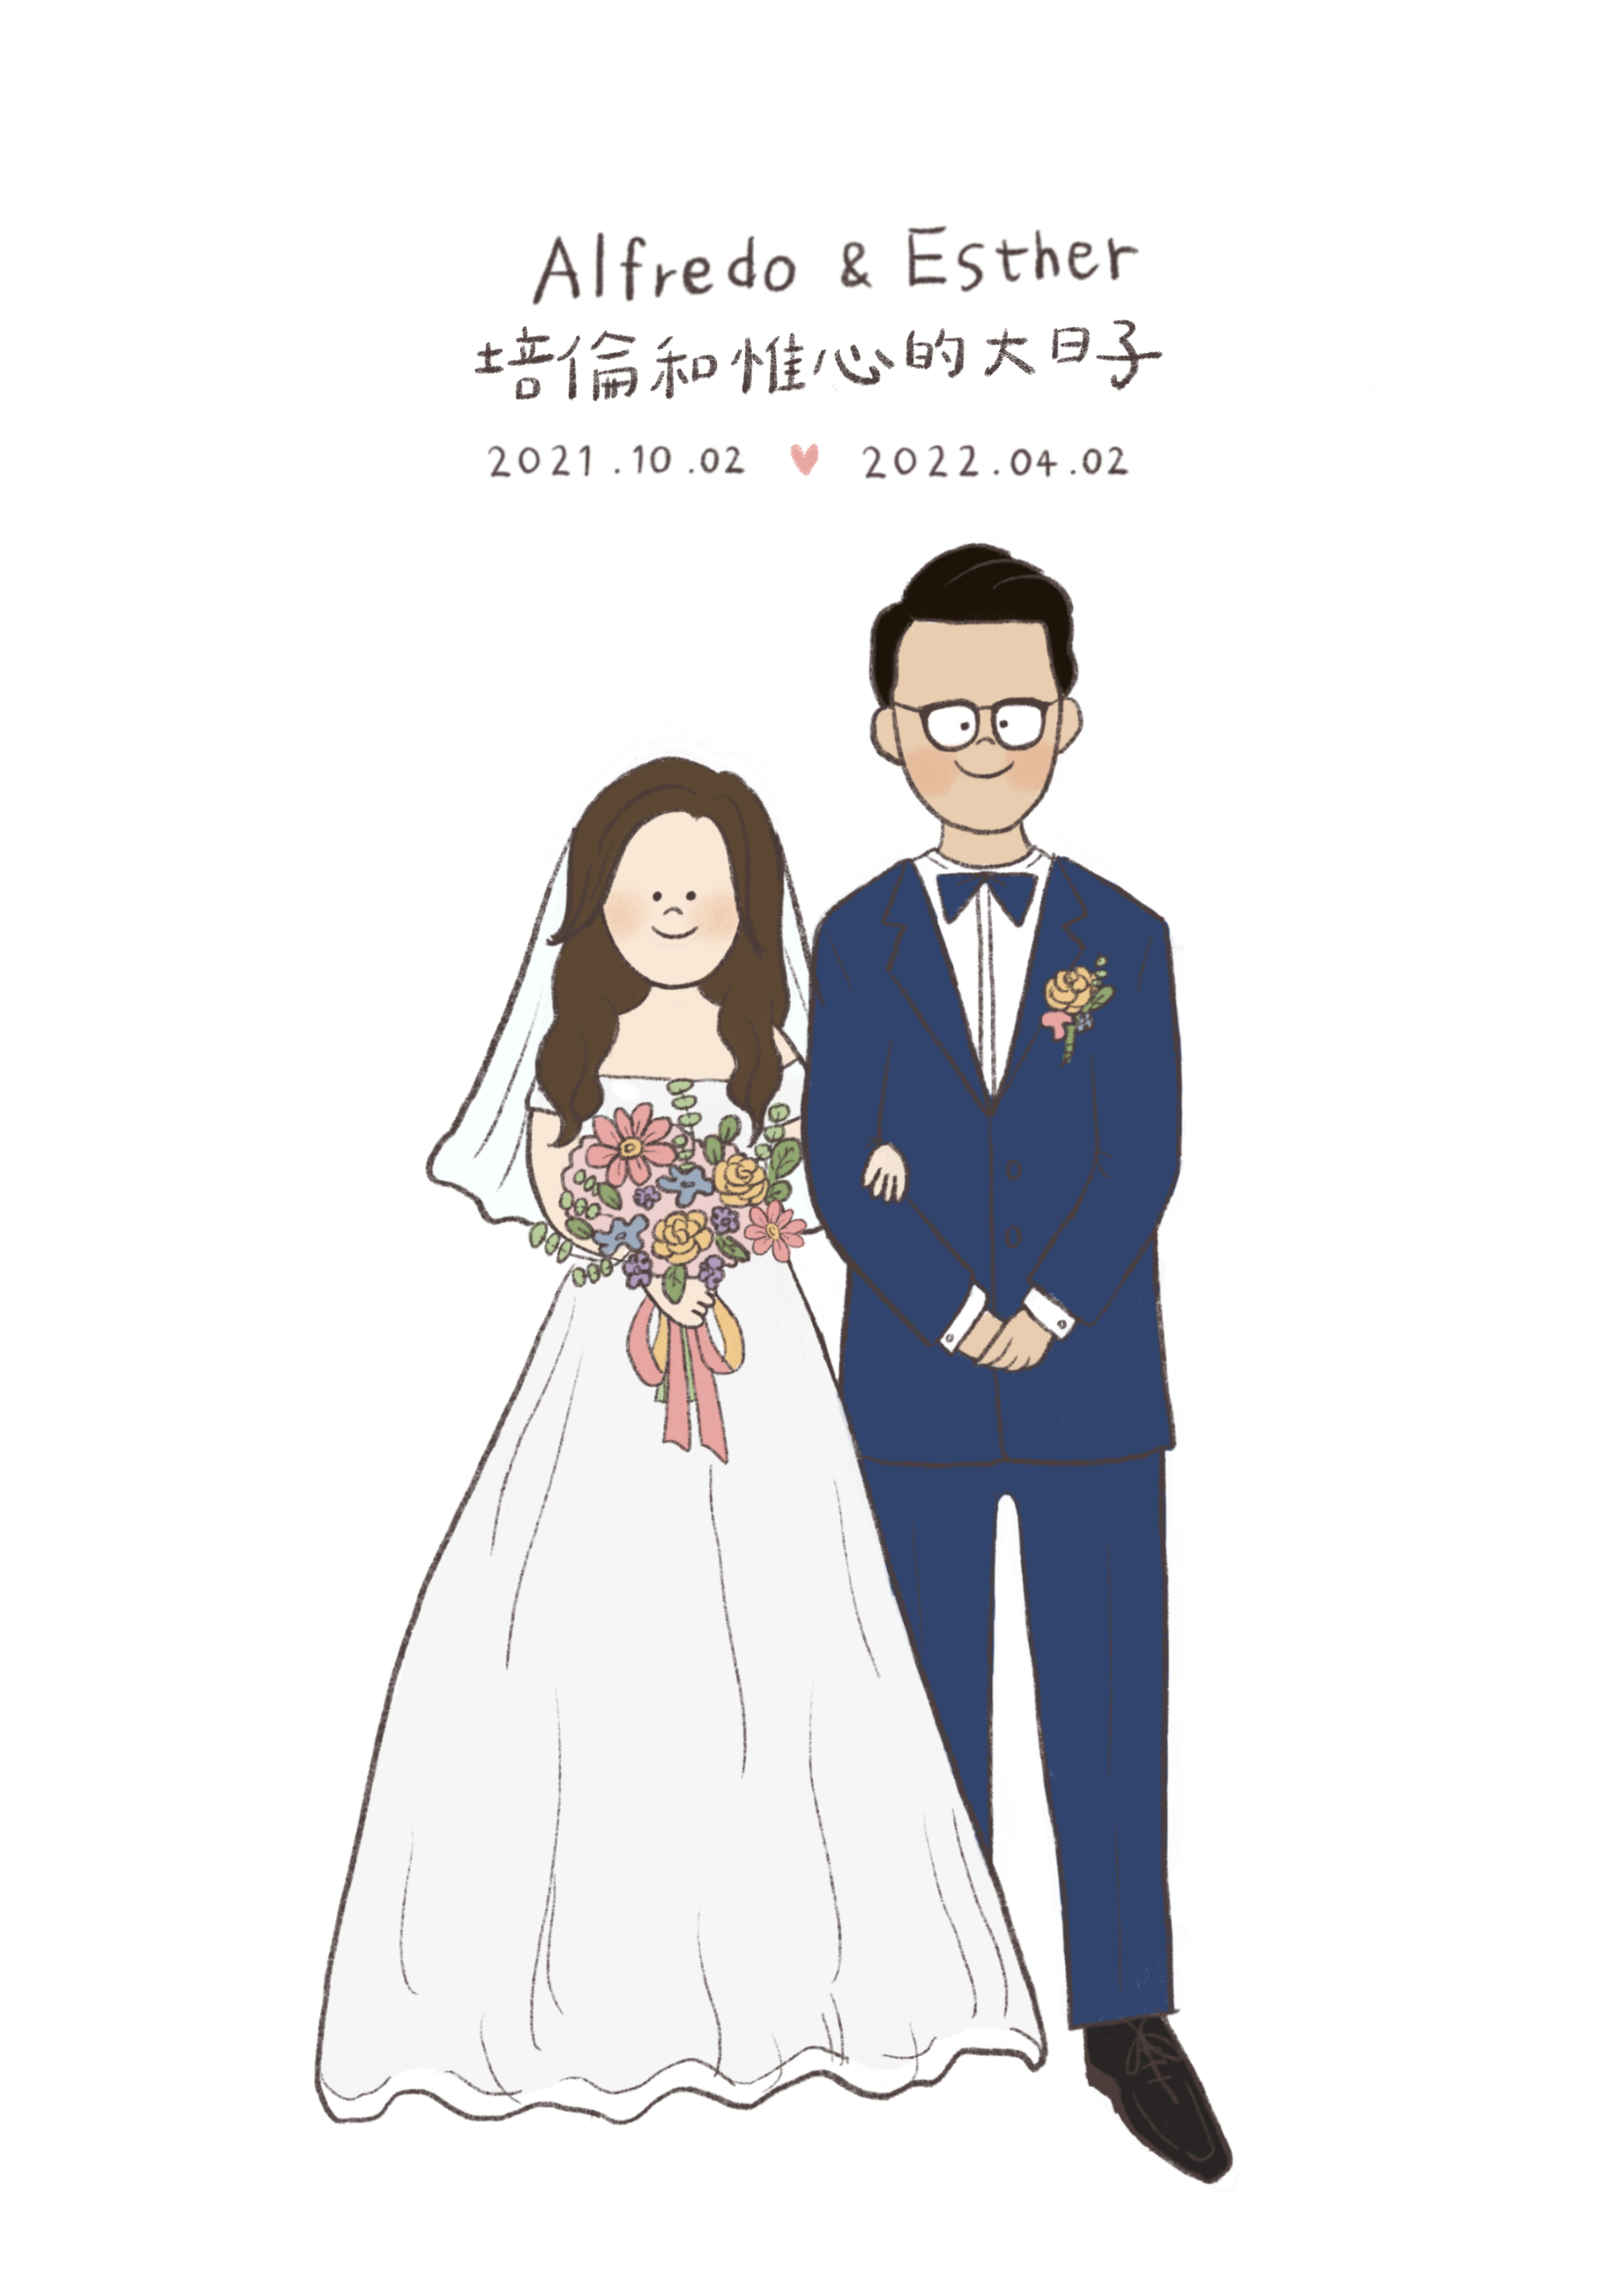
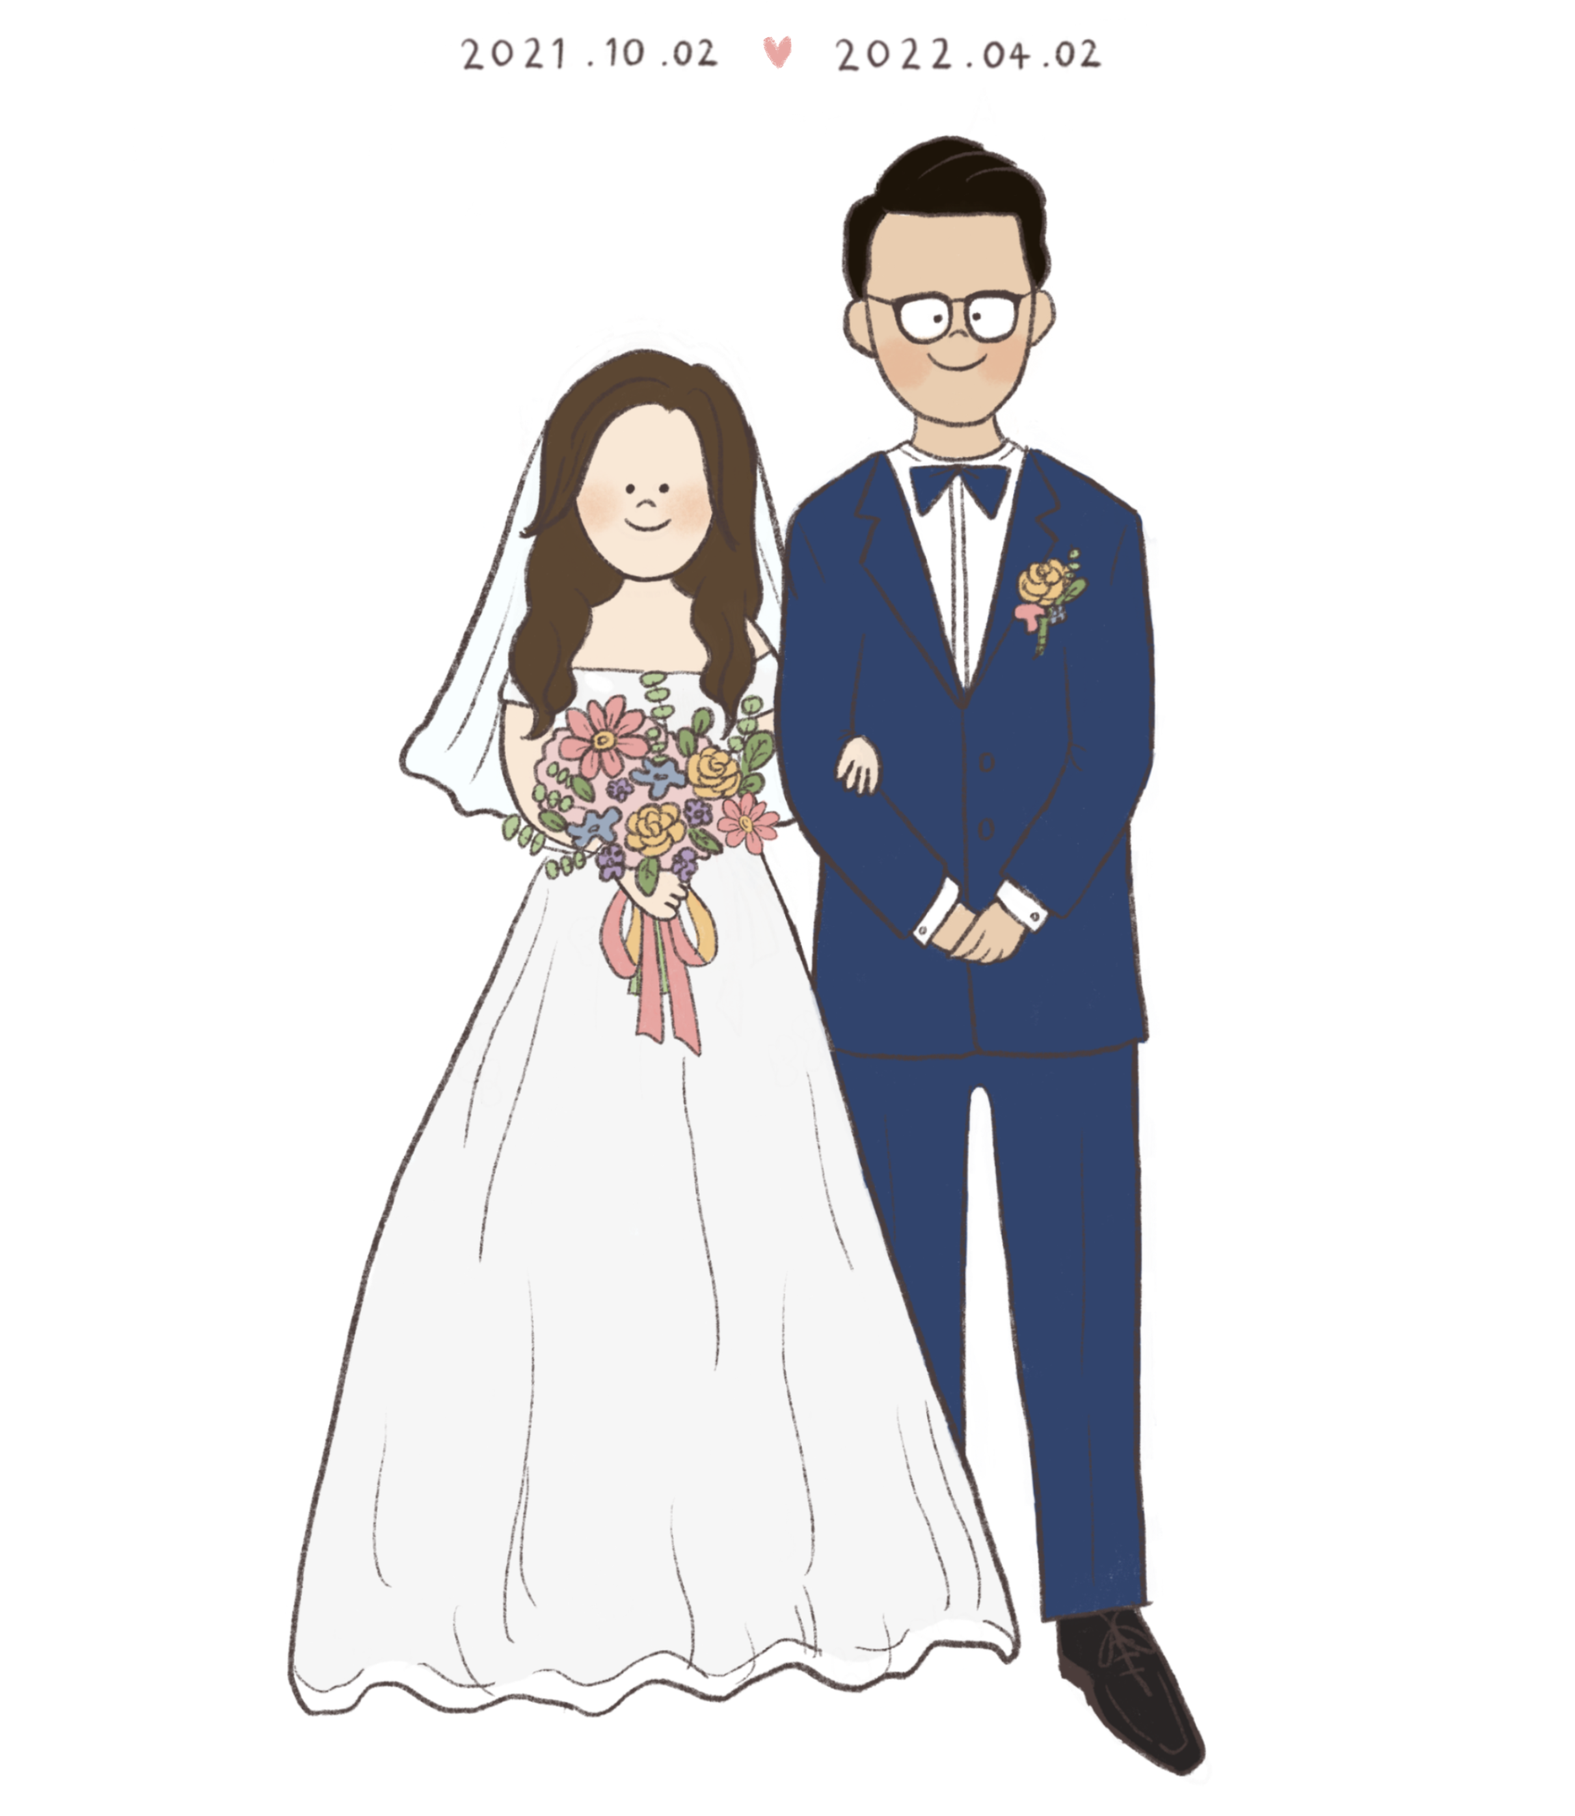
release 1.1.1

diff --git a/src/components/Layout/Header/index.tsx b/src/components/Layout/Header/index.tsx
@@ -1,11 +1,9 @@
 import Link from 'next/link'
-import Image from 'next/image'
 import router from 'next/router'
 import clsx from 'clsx'
 import { useScrollTrigger } from '@/src/hooks/useScrollTrigger'
 import { WINDOW } from '@/src/constants/client'
 import { ROUTE_WITHOUT_HOME_VALUE, HOME_ROUTE_VALUE } from '@/src/constants/config'
-import Logo from '@/src/assets/images/logo.png'
 
 type Props = {
   currentPage: string
@@ -24,20 +22,13 @@ export const Header: React.FC<Props> = ({ currentPage }) => {
           trigger && ['shadow-md']
         )}
       >
-        <div className="flex-1">
-          <Image
-            src={Logo}
-            alt="tc_drawn"
-            priority
-            height={50}
-            width={91}
-            onClick={handleClickLogo}
-          />
-        </div>
+        <div className="flex-1">Alfredo & Esther Wedding</div>
         <nav className="flex-2 space-x-4">
           {ROUTE_WITHOUT_HOME_VALUE.map(route => (
             <Link key={route.name} href={route.href} passHref>
-              <span className="underline underline-offset-2 cursor-pointer">{route.name}</span>
+              <span className="underline underline-offset-2 cursor-pointer">
+                {route.name.toUpperCase()}
+              </span>
             </Link>
           ))}
         </nav>

diff --git a/src/containers/Home/index.tsx b/src/containers/Home/index.tsx
@@ -1,6 +1,7 @@
 import Image from 'next/image'
 import dateTime from '@/src/helpers/dateTime'
 import TCDrawnImage from '@/src/assets/images/tc_drawn.png'
+import Logo from '@/src/assets/images/logo.png'
 import InvitationCardASide from '@/src/assets/images/invitation_card_a_side.jpg'
 import InvitationCardBSide from '@/src/assets/images/invitation_card_b_side.jpg'
 import { WEDDING_TIME, LOCATION_LINK } from '@/src/constants/config'
@@ -9,6 +10,9 @@ export const HomeContainer: React.FC = () => {
   return (
     <div className="flex flex-col justify-center items-center space-y-6">
       <section className="space-y-4 text-center">
+        <div>
+          <Image src={Logo} alt="log" priority layout="responsive" />
+        </div>
         <h1 className="text-xl">Welcome to our wedding</h1>
         <h2 className="text-lg">{dateTime(WEDDING_TIME).format('YYYY.MM.DD dddd HH:mm A')}</h2>
         <h2>

diff --git a/src/services/getWeddingTable/utils/index.ts b/src/services/getWeddingTable/utils/index.ts
@@ -41,7 +41,7 @@ const mapTableState = (data: any[]): TableState => {
     return {
       id: nanoid(),
       tableName,
-      tableId,
+      tableId: Number(tableId),
       category,
       tableItem,
       peopleCount: tableItem.length,

diff --git a/src/typings/TableState.d.ts b/src/typings/TableState.d.ts
@@ -9,7 +9,7 @@ type TableItem = {
 type TableList = {
   id: string
   tableName: string
-  tableId: string
+  tableId: number
   category: string
   tableItem: TableItem[]
   peopleCount: number
